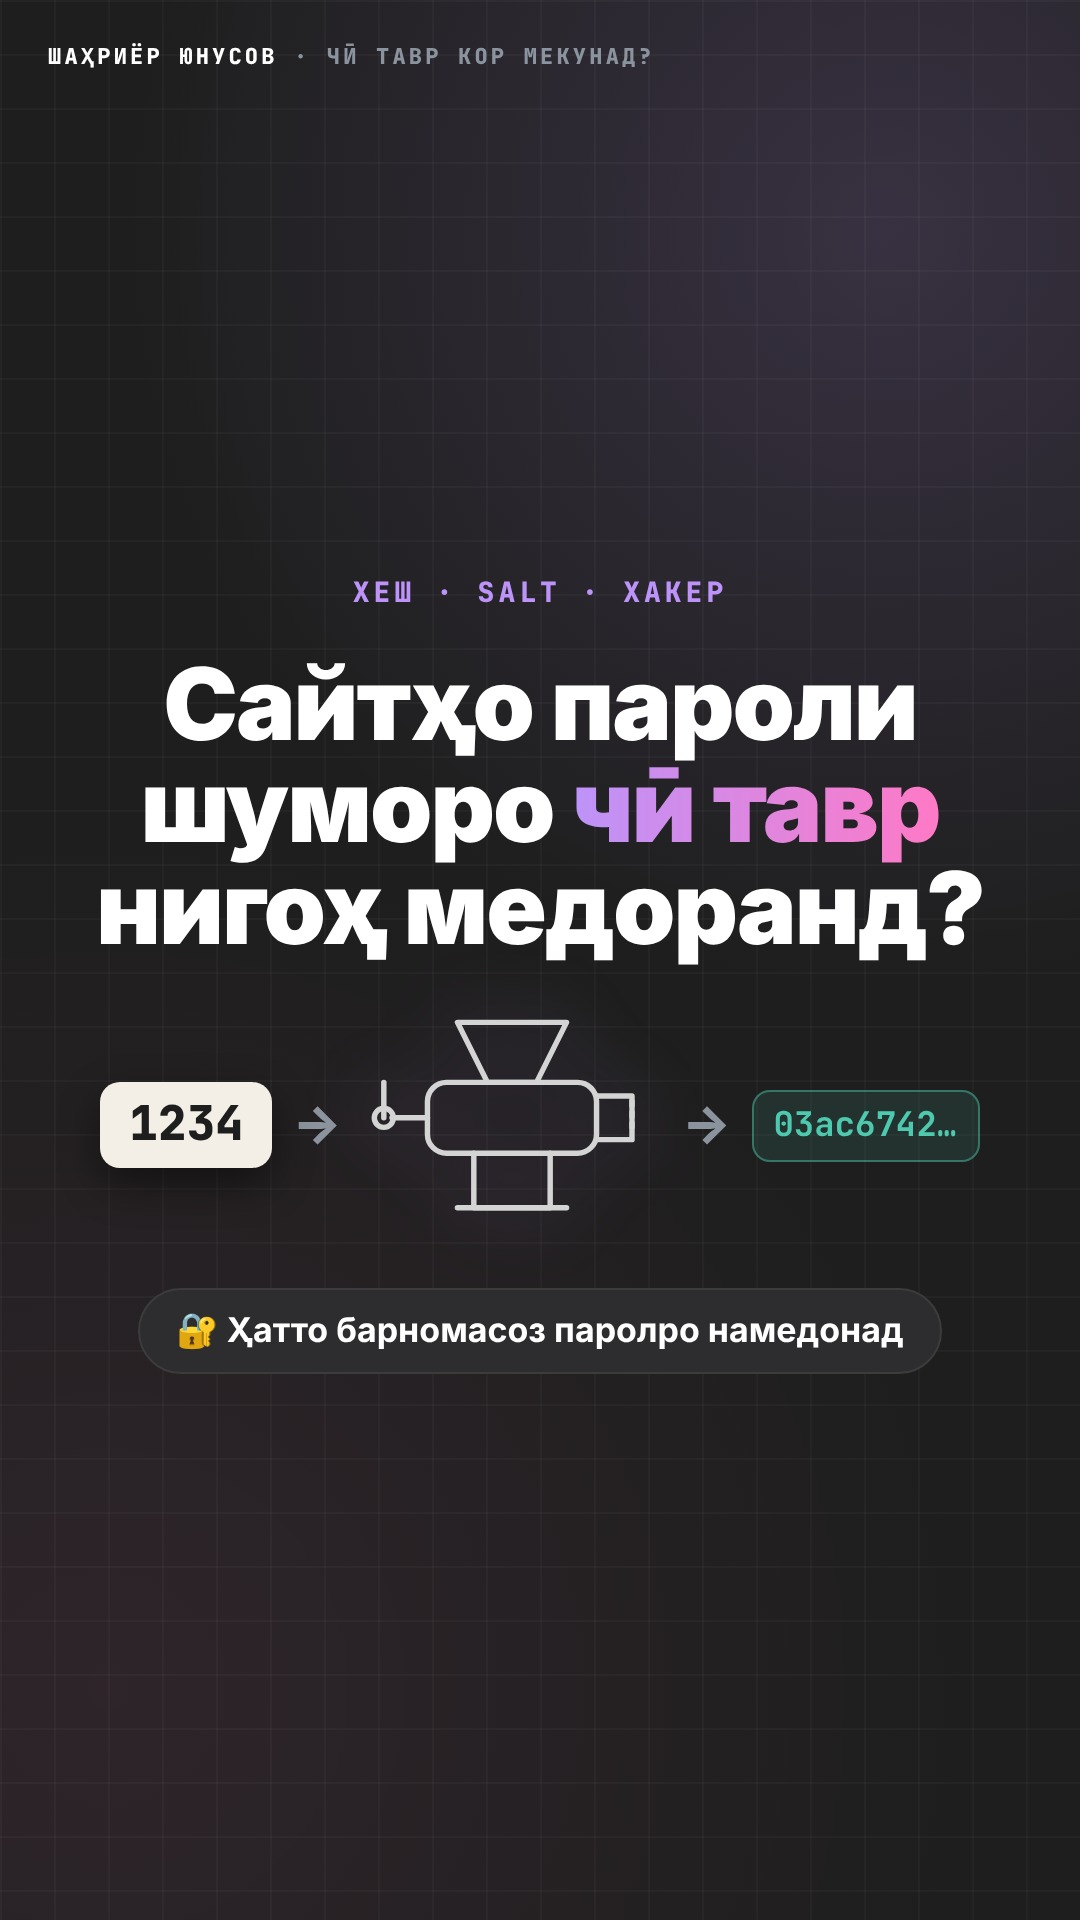
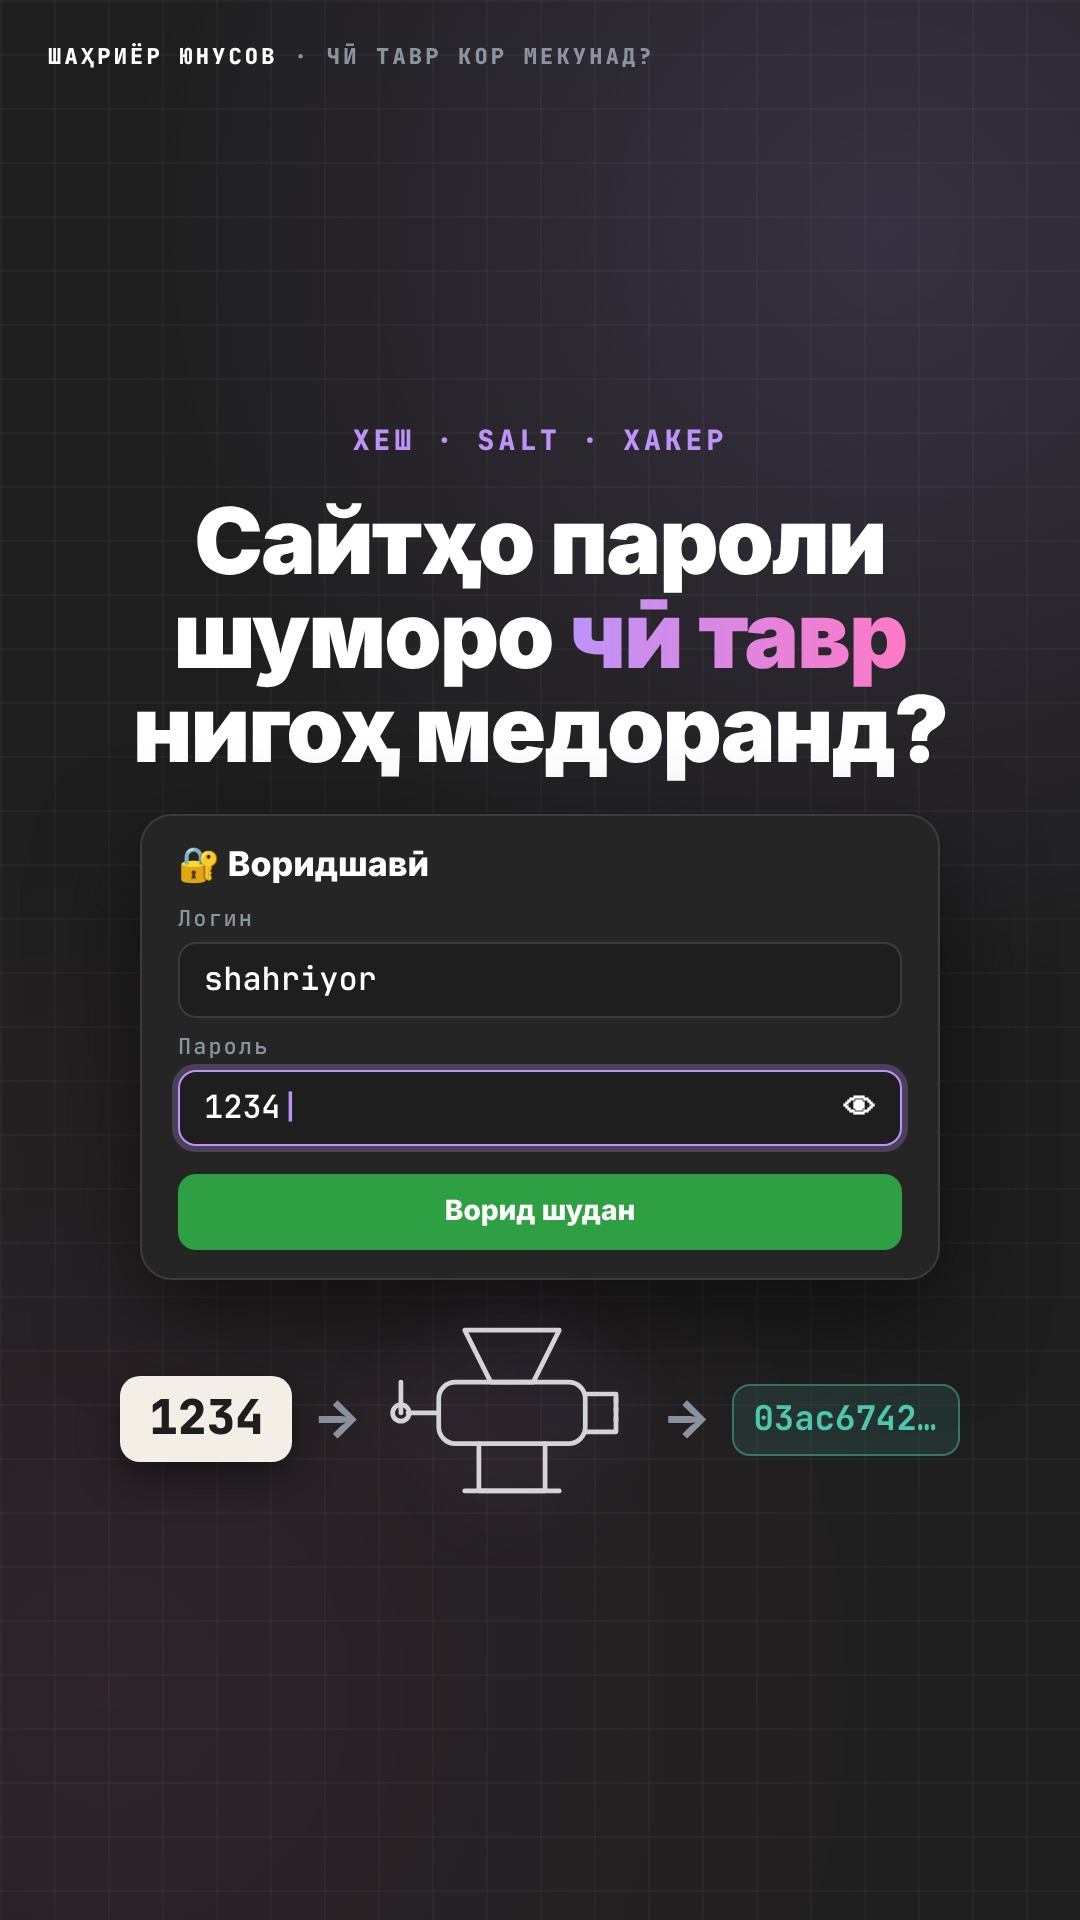
Reels extra 02: cover with login/password form
Claude-Session: https://claude.ai/code/session_01SWhLqzjyxb3RGLi5WYd75E

Changed region(s): [[0.0917, 0.2188, 0.9167, 0.7812], [0.4278, 0.75, 0.5194, 0.7812]]

diff --git a/smm-video/reels/extra-02-parol/build/cover.html b/smm-video/reels/extra-02-parol/build/cover.html
@@ -63,17 +63,22 @@ body::before{content:"";position:absolute;inset:0;background-image:linear-gradie
 #cap{position:absolute;left:28px;right:28px;top:650px;min-height:80px;display:flex;align-items:center;justify-content:center;text-align:center;font:800 24px/1.3 Inter;color:#fff;z-index:30;text-shadow:0 2px 12px rgba(0,0,0,.8)}
 #cap .w{opacity:.55}#cap .w.on{opacity:1}#cap .w.cur{opacity:1;color:var(--purple)}
 
-.cv{position:absolute;left:0;right:0;top:150px;height:675px;display:flex;flex-direction:column;align-items:center;justify-content:center;gap:22px}
+.cv{position:absolute;left:0;right:0;top:142px;height:690px;display:flex;flex-direction:column;align-items:center;justify-content:center;gap:22px}
 .big{font:900 50px/1.02 Inter;color:#fff;text-align:center;letter-spacing:-1px}
 .flow{display:flex;align-items:center;gap:10px}
 </style></head><body>
 <div class="hdr"><div class="nm"><span><b>ШАҲРИЁР ЮНУСОВ</b> · ЧӢ ТАВР КОР МЕКУНАД?</span><span></span></div></div>
-<div class="cv">
- <div class="kicker" style="font:800 14px var(--mono);letter-spacing:2px;color:var(--purple)">ХЕШ · SALT · ХАКЕР</div>
- <div class="big">Сайтҳо пароли<br>шуморо <span class="acc">чӣ тавр</span><br>нигоҳ медоранд?</div>
- <div class="flow"><span class="tagn" style="position:static">1234</span><span style="font:800 26px Inter;color:#8B949E">→</span><div class="gwrap" style="position:static;width:150px"><svg class="grind" viewBox="0 0 220 170"><g fill="none" stroke="currentColor" stroke-width="4" stroke-linejoin="round" stroke-linecap="round">
+<div class="cv" style="gap:18px">
+ <div style="font:800 14px var(--mono);letter-spacing:2px;color:var(--purple)">ХЕШ · SALT · ХАКЕР</div>
+ <div class="big" style="font-size:46px">Сайтҳо пароли<br>шуморо <span class="acc">чӣ тавр</span><br>нигоҳ медоранд?</div>
+ <div class="form" style="position:relative;width:400px;padding:14px 18px">
+  <div class="ft">🔐 Воридшавӣ</div>
+  <div class="fl">Логин</div><div class="fi">shahriyor</div>
+  <div class="fl">Пароль</div><div class="fi" style="justify-content:space-between;border-color:#BD93F9;box-shadow:0 0 0 3px rgba(189,147,249,.25)"><span>1234<span style="color:#BD93F9">|</span></span><span style="font-size:16px">👁</span></div>
+  <div class="fb">Ворид шудан</div>
+ </div>
+ <div class="flow"><span class="tagn" style="position:static">1234</span><span style="font:800 26px Inter;color:#8B949E">→</span><div class="gwrap" style="position:static;width:130px"><svg class="grind" viewBox="0 0 220 170"><g fill="none" stroke="currentColor" stroke-width="4" stroke-linejoin="round" stroke-linecap="round">
 <path d="M70 12 H150 L128 56 H92 Z"/><rect x="48" y="56" width="124" height="52" rx="14"/><path d="M172 66 h26 v32 h-26"/>
 <path d="M198 70 v24" stroke-dasharray="3 5"/><path d="M48 82 H22"/><circle cx="16" cy="82" r="7"/><path d="M16 82 v-26"/>
 <path d="M82 108 v40 h56 v-40"/><path d="M70 148 h80"/></g></svg></div><span style="font:800 26px Inter;color:#8B949E">→</span><span class="hash">03ac6742…</span></div>
- <div class="pill" style="position:static">🔐 Ҳатто барномасоз паролро намедонад</div>
 </div></body></html>
